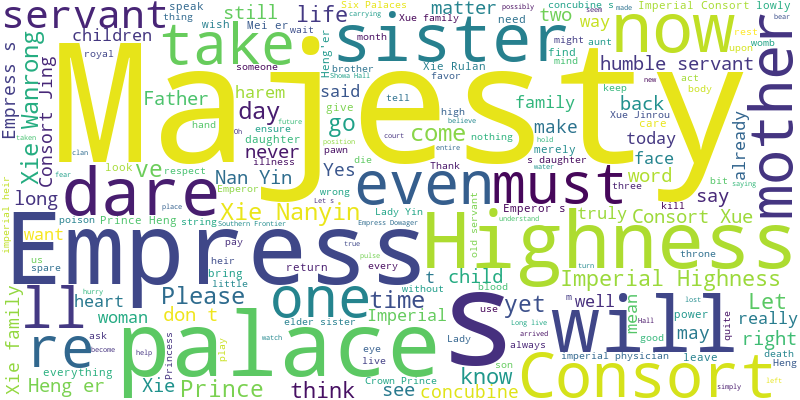
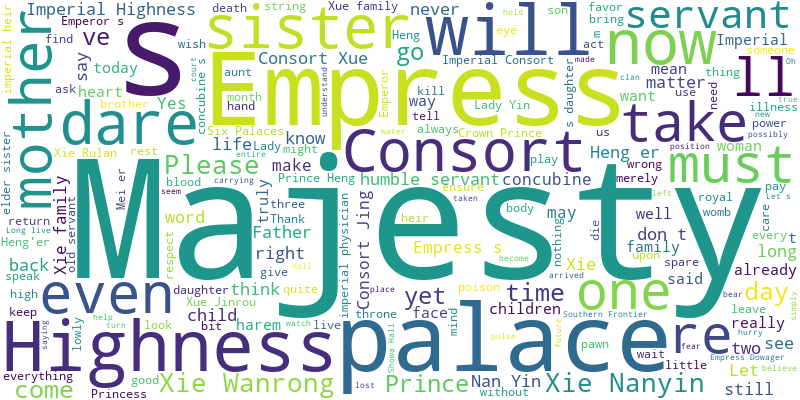
UI Redesign and Sentiment Metric Explanations

diff --git a/static/style.css b/static/style.css
@@ -30,7 +30,7 @@ body {
 
 .container {
     width: 100%;
-    max-width: 800px;
+    max-width: 1100px; /* Increased max width for side-by-side */
     padding: 3rem 1.5rem;
     display: flex;
     flex-direction: column;
@@ -61,6 +61,9 @@ header p {
     border-radius: 16px;
     box-shadow: 0 10px 25px rgba(0, 0, 0, 0.2);
     border: 1px solid var(--border-color);
+    max-width: 800px;
+    margin: 0 auto;
+    width: 100%;
 }
 
 .input-group {
@@ -130,21 +133,33 @@ button:disabled {
     animation: fadeIn 0.5s ease;
 }
 
-.results-section h2 {
+.results-header h2 {
     font-size: 1.5rem;
     font-weight: 600;
     border-bottom: 1px solid var(--border-color);
     padding-bottom: 0.5rem;
+    margin-bottom: 1rem;
 }
 
-.analysis-box, .wordcloud-box, .transcript-box {
+.results-grid {
+    display: grid;
+    grid-template-columns: 1fr 1fr;
+    gap: 1.5rem;
+    align-items: start;
+}
+
+.analysis-box, .explanations-box, .wordcloud-box, .transcript-box {
     background: var(--card-bg);
     padding: 1.5rem;
     border-radius: 12px;
     border: 1px solid var(--border-color);
 }
 
-.analysis-box h3, .wordcloud-box h3, .transcript-box h3 {
+.explanations-box {
+    margin-top: 1.5rem;
+}
+
+.analysis-box h3, .explanations-box h3, .wordcloud-box h3, .transcript-box h3 {
     font-size: 1.1rem;
     color: var(--accent-color);
     margin-bottom: 1rem;
@@ -216,6 +231,78 @@ button:disabled {
     color: var(--primary-color);
 }
 
+/* Explanations Section Styles */
+.explanation-item {
+    margin-bottom: 1.5rem;
+}
+
+.explanation-item:last-child {
+    margin-bottom: 0;
+}
+
+.explanation-item h4 {
+    font-size: 1rem;
+    color: var(--text-color);
+    margin-bottom: 0.5rem;
+    display: flex;
+    align-items: center;
+    gap: 0.5rem;
+}
+
+.explanation-item p {
+    font-size: 0.9rem;
+    color: var(--text-muted);
+    line-height: 1.5;
+}
+
+.lexicon-counts {
+    list-style: none;
+    margin: 0.75rem 0;
+    padding: 0.75rem;
+    background: var(--bg-color);
+    border-radius: 6px;
+    border: 1px solid var(--border-color);
+}
+
+.lexicon-counts li {
+    font-size: 0.95rem;
+    margin-bottom: 0.25rem;
+    display: flex;
+    align-items: center;
+    gap: 0.5rem;
+}
+
+.lexicon-counts li:last-child {
+    margin-bottom: 0;
+}
+
+.dot {
+    width: 10px;
+    height: 10px;
+    border-radius: 50%;
+    display: inline-block;
+}
+
+.positive-dot {
+    background-color: var(--positive-color);
+}
+
+.negative-dot {
+    background-color: var(--negative-color);
+}
+
+.lexicon-context {
+    font-style: italic;
+    font-size: 0.85rem !important;
+}
+
+/* Word Cloud Styles */
+.wordcloud-desc {
+    font-size: 0.9rem;
+    color: var(--text-muted);
+    margin-bottom: 1rem;
+}
+
 .wordcloud-img {
     width: 100%;
     height: auto;
@@ -277,6 +364,12 @@ footer {
 }
 
 /* Responsive */
+@media (max-width: 900px) {
+    .results-grid {
+        grid-template-columns: 1fr;
+    }
+}
+
 @media (max-width: 600px) {
     .input-group {
         flex-direction: column;

diff --git a/templates/index.html b/templates/index.html
@@ -30,34 +30,69 @@
             </section>
             
             <section id="results-panel" class="results-section" style="display: none;">
-                <h2>Analysis Results</h2>
-                
-                <div class="analysis-box">
-                    <h3>Overall Conclusion</h3>
-                    <p id="conclusion-text" class="conclusion-text"></p>
-                    
-                    <div class="metrics-grid">
-                        <div class="metric-card">
-                            <h4>Word Count</h4>
-                            <p id="word-count" class="metric-value">0</p>
-                        </div>
-                        <div class="metric-card">
-                            <h4>Polarity Score</h4>
-                            <p id="polarity-score" class="metric-value">0.0</p>
-                        </div>
-                    </div>
-                    
-                    <div class="emotions-section">
-                        <h4>Top Emotions</h4>
-                        <ul id="emotions-list" class="emotions-list">
-                            <!-- Emotions will be populated here -->
-                        </ul>
-                    </div>
+                <div class="results-header">
+                    <h2>Analysis Results</h2>
                 </div>
+                
+                <div class="results-grid">
+                    <!-- Left Column: Stats & Text -->
+                    <div class="results-column-left">
+                        <div class="analysis-box">
+                            <h3>Overall Conclusion</h3>
+                            <p id="conclusion-text" class="conclusion-text"></p>
+                            
+                            <div class="metrics-grid">
+                                <div class="metric-card">
+                                    <h4>Word Count</h4>
+                                    <p id="word-count" class="metric-value">0</p>
+                                </div>
+                                <div class="metric-card">
+                                    <h4>Polarity Score</h4>
+                                    <p id="polarity-score" class="metric-value">0.0</p>
+                                </div>
+                            </div>
+                            
+                            <div class="emotions-section">
+                                <h4>Top Emotions</h4>
+                                <ul id="emotions-list" class="emotions-list">
+                                    <!-- Emotions will be populated here -->
+                                </ul>
+                            </div>
+                        </div>
 
-                <div class="wordcloud-box" id="wordcloud-box" style="display: none;">
-                    <h3>Word Cloud</h3>
-                    <img id="wordcloud-img" src="" alt="Transcript Word Cloud" class="wordcloud-img">
+                        <div class="explanations-box">
+                            <h3>Metrics Explained</h3>
+                            
+                            <div class="explanation-item">
+                                <h4>📈 Polarity Score</h4>
+                                <p>This score ranges from <strong>-1.0 to +1.0</strong>. A higher value (closer to 1) means the transcript uses highly positive and happy language. A lower value (closer to -1) indicates sad, negative, or angry language. A score around 0 indicates a neutral tone.</p>
+                            </div>
+
+                            <div class="explanation-item">
+                                <h4>📖 Bing Lexicon (Positive vs Negative)</h4>
+                                <p>We count exactly how many positive and negative words were spoken in the video:</p>
+                                <ul class="lexicon-counts">
+                                    <li><span class="dot positive-dot"></span> Positive words: <strong id="pos-count">0</strong></li>
+                                    <li><span class="dot negative-dot"></span> Negative words: <strong id="neg-count">0</strong></li>
+                                </ul>
+                                <p class="lexicon-context">This shows if the audience or speaker leans towards a good or bad mood overall.</p>
+                            </div>
+
+                            <div class="explanation-item">
+                                <h4>🔄 Sentiment Context (Syuzhet-style)</h4>
+                                <p>Similar to the Syuzhet dictionary used in R, the Polarity and Emotion breakdown give us the trajectory of the speaker's emotional state. If negative words are high alongside "Sadness" or "Anger", it usually reflects drama-like emotional lows.</p>
+                            </div>
+                        </div>
+                    </div>
+
+                    <!-- Right Column: Word Cloud -->
+                    <div class="results-column-right">
+                        <div class="wordcloud-box" id="wordcloud-box" style="display: none;">
+                            <h3>Word Cloud</h3>
+                            <p class="wordcloud-desc">Visualizing the most frequently used words in the video.</p>
+                            <img id="wordcloud-img" src="" alt="Transcript Word Cloud" class="wordcloud-img">
+                        </div>
+                    </div>
                 </div>
 
                 <div class="transcript-box">

diff --git a/static/script.js b/static/script.js
@@ -15,6 +15,10 @@ document.addEventListener('DOMContentLoaded', () => {
     const wordcloudBox = document.getElementById('wordcloud-box');
     const wordcloudImg = document.getElementById('wordcloud-img');
     const transcriptText = document.getElementById('transcript-text');
+    
+    // Lexicon Counts
+    const posCount = document.getElementById('pos-count');
+    const negCount = document.getElementById('neg-count');
 
     form.addEventListener('submit', async (e) => {
         e.preventDefault();
@@ -48,6 +52,10 @@ document.addEventListener('DOMContentLoaded', () => {
             conclusionText.textContent = data.conclusion;
             wordCount.textContent = data.word_count;
             polarityScore.textContent = data.polarity.toFixed(2);
+            
+            // Populate Lexicon counts
+            posCount.textContent = data.positive_words || 0;
+            negCount.textContent = data.negative_words || 0;
             
             // Color code polarity
             if (data.polarity > 0.1) {

diff --git a/app.py b/app.py
@@ -77,7 +77,14 @@ def analyze():
     # --- 3. Emotion Analysis (NRCLex) ---
     emotion_analyzer = NRCLex()
     emotion_analyzer.load_raw_text(transcript)
+    
     emotions = emotion_analyzer.affect_frequencies
+    raw_scores = emotion_analyzer.raw_emotion_scores
+    
+    # Extract Bing-like counts
+    positive_words = raw_scores.get('positive', 0)
+    negative_words = raw_scores.get('negative', 0)
+
     # Filter out positive/negative, keep actual emotions
     filtered_emotions = {k: v for k, v in emotions.items() if k not in ['positive', 'negative', 'anticip'] and v > 0}
     
@@ -94,7 +101,6 @@ def analyze():
                  f"The primary emotions expressed are {emotion_str}."
 
     # --- 5. Word Cloud Generation ---
-    # We save a unique word cloud image based on the video ID so it doesn't cache incorrectly
     video_id = extract_video_id(url)
     wc_filename = f"wordcloud_{video_id}.png"
     wc_path = os.path.join('static', wc_filename)
@@ -118,6 +124,8 @@ def analyze():
         'sentiment_label': sentiment_label,
         'polarity': polarity,
         'top_emotions': top_emotions,
+        'positive_words': positive_words,
+        'negative_words': negative_words,
         'conclusion': conclusion,
         'wordcloud_url': wc_url
     }